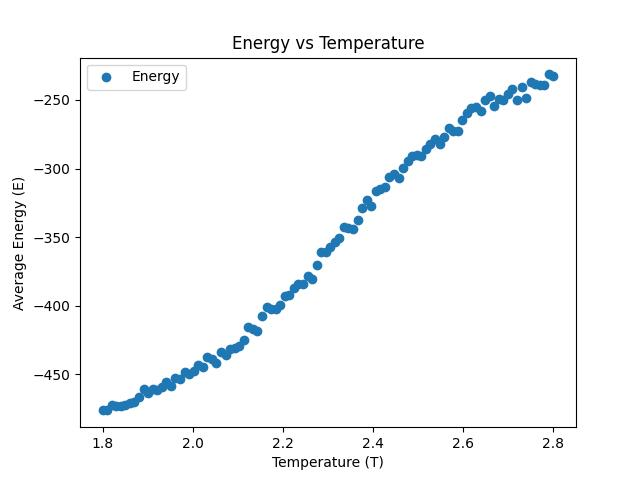
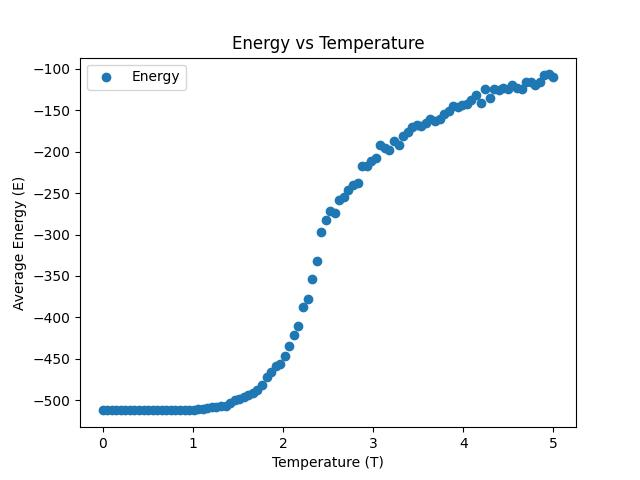
Update file via PyCharm Version Control

diff --git a/nD_with_mp/n-D Ising Model_v3.2.py b/nD_with_mp/n-D Ising Model_v3.2.py
@@ -301,13 +301,13 @@ if __name__ == '__main__':
     ### CHANGE 1: Use narrower T-range, more steps, random init
     dimension = 2
     # We'll do multiple L in FSS, but let's define a "base" L for single-lattice plots
-    lattice_size = 128
+    lattice_size = 16
 
-    random_init = True
-    steps_MC = 1250     # Increased to help with equilibration
-    n_runs = 100
-    T_min = 1.8         # Focus near the known 2D Tc ~ 2.27
-    T_max = 2.8
+    random_init = False
+    steps_MC = 200     # Increased to help with equilibration
+    n_runs = 50
+    T_min = 0         # Focus near the known 2D Tc ~ 2.27
+    T_max = 5
     num_T = 100          # More temperature points for finer resolution
     J = 1.0
     B = 0.0
@@ -362,6 +362,72 @@ if __name__ == '__main__':
     plt.legend()
     plt.savefig(f"output/Ising_{dimension}D_C_vs_T.jpg")
     plt.show()
+
+    do_hysteresis = input(
+        "Do you want to run the M vs B graph? (Enter 1 for yes, any other number to skip this part): ")
+    if do_hysteresis.strip() == "1":
+        try:
+            T_fixed = float(input("Enter the fixed temperature (below but close to T_c) (e.g., 2.0): "))
+            B_max = float(input("Enter the maximum absolute value of the external field B (e.g., 2.0): "))
+            num_B = int(input("Enter the number of B points for the sweep (e.g., 50): "))
+        except Exception as e:
+            print("Invalid input for hysteresis parameters.", e)
+            sys.exit(1)
+
+        # Create arrays for upward and downward sweeps
+        B_vals_up = np.linspace(-B_max, B_max, num_B)
+        B_vals_down = np.linspace(B_max, -B_max, num_B)
+
+        # Initialize spin configuration based on dimension
+        if dimension == 1:
+            Spin = initial_config(random_init, lattice_size, 1)
+        elif dimension == 2:
+            Spin = initial_config(random_init, lattice_size, 2)
+        elif dimension == 3:
+            Spin = initial_config(random_init, lattice_size, 3)
+
+        # Upward sweep (increasing B)
+        magnetizations_up = []
+        for B_val in tqdm(B_vals_up, desc="Upward sweep"):
+            if dimension == 1:
+                Spin = step_1D(Spin, steps_MC, T_fixed, J, B_val, default_periodic)
+                magnetizations_up.append(M_1D(Spin))
+            elif dimension == 2:
+                Spin = step_2D(Spin, steps_MC, T_fixed, J, B_val, default_periodic)
+                magnetizations_up.append(M_2D(Spin))
+            elif dimension == 3:
+                Spin = step_3D(Spin, steps_MC, T_fixed, J, B_val, default_periodic)
+                magnetizations_up.append(M_3D(Spin))
+
+        # Downward sweep (decreasing B)
+        magnetizations_down = []
+        for B_val in tqdm(B_vals_down, desc="Downward sweep"):
+            if dimension == 1:
+                Spin = step_1D(Spin, steps_MC, T_fixed, J, B_val, default_periodic)
+                magnetizations_down.append(M_1D(Spin))
+            elif dimension == 2:
+                Spin = step_2D(Spin, steps_MC, T_fixed, J, B_val, default_periodic)
+                magnetizations_down.append(M_2D(Spin))
+            elif dimension == 3:
+                Spin = step_3D(Spin, steps_MC, T_fixed, J, B_val, default_periodic)
+                magnetizations_down.append(M_3D(Spin))
+
+        # Plot the hysteresis loop: M vs B
+        plt.figure()
+        plt.plot(B_vals_up, magnetizations_up, 'o-', label="Increasing B")
+        plt.plot(B_vals_down, magnetizations_down, 'o-', label="Decreasing B")
+        plt.xlabel("External Field B")
+        plt.ylabel("Magnetization M")
+        plt.title(f"Hysteresis Loop at T = {T_fixed}")
+        plt.legend()
+        filename_hyst = f"output/Ising_{dimension}D_Hysteresis.jpg"
+        plt.savefig(filename_hyst)
+        plt.show()
+
+
+
+
+
 
     # ---------------------- Finite-Size Scaling (FSS) Analysis ----------------------
     # Example: Lattice sizes for FSS
